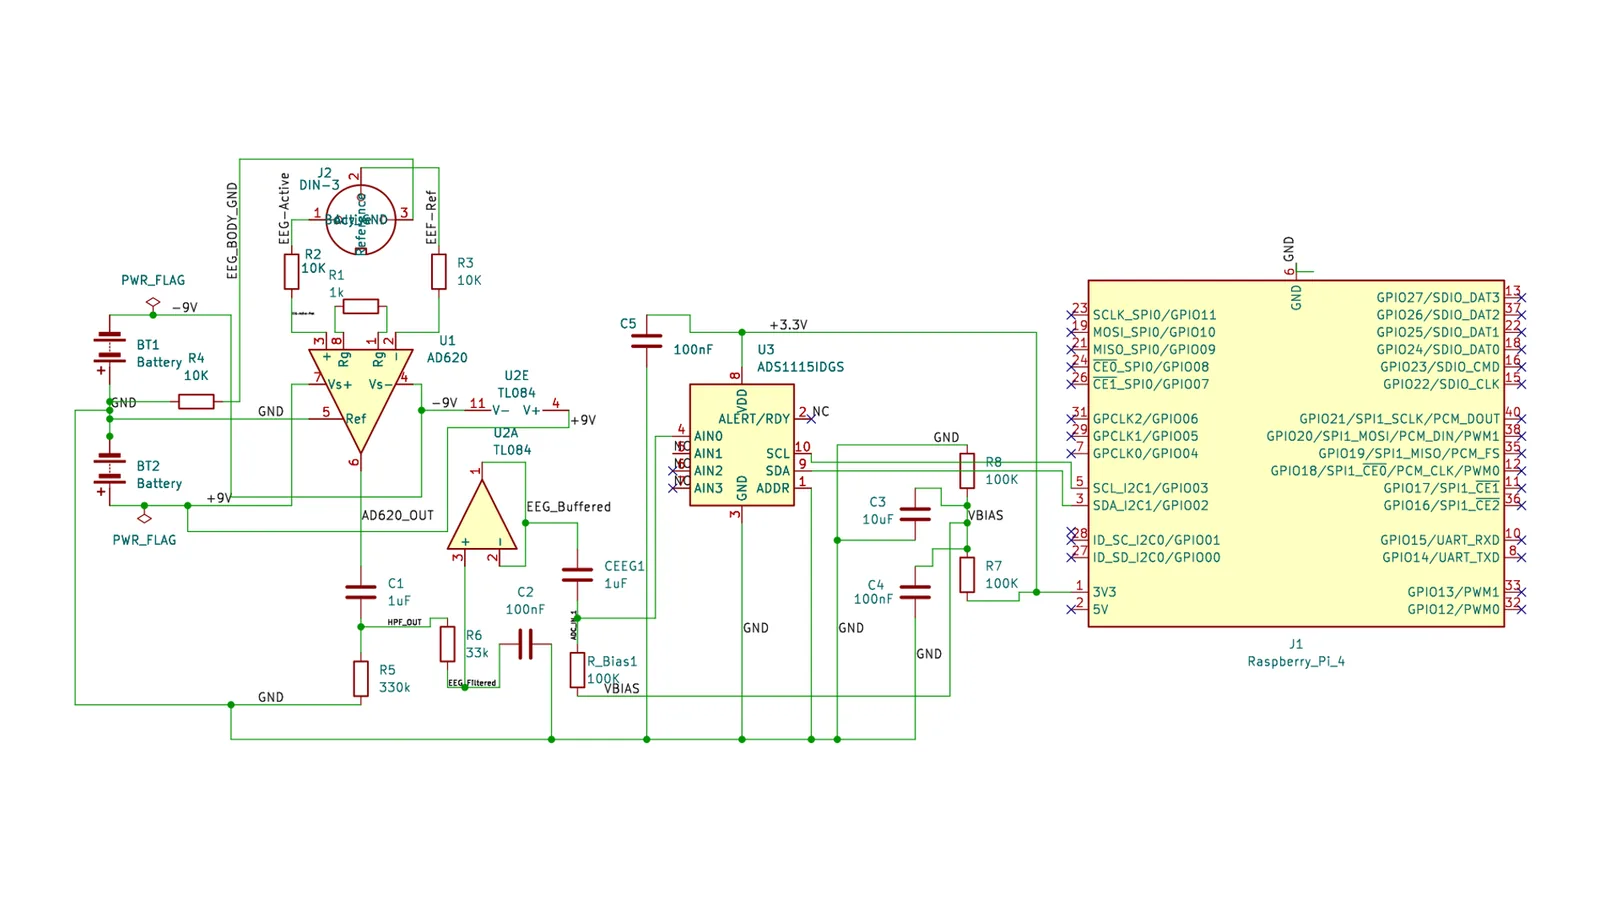
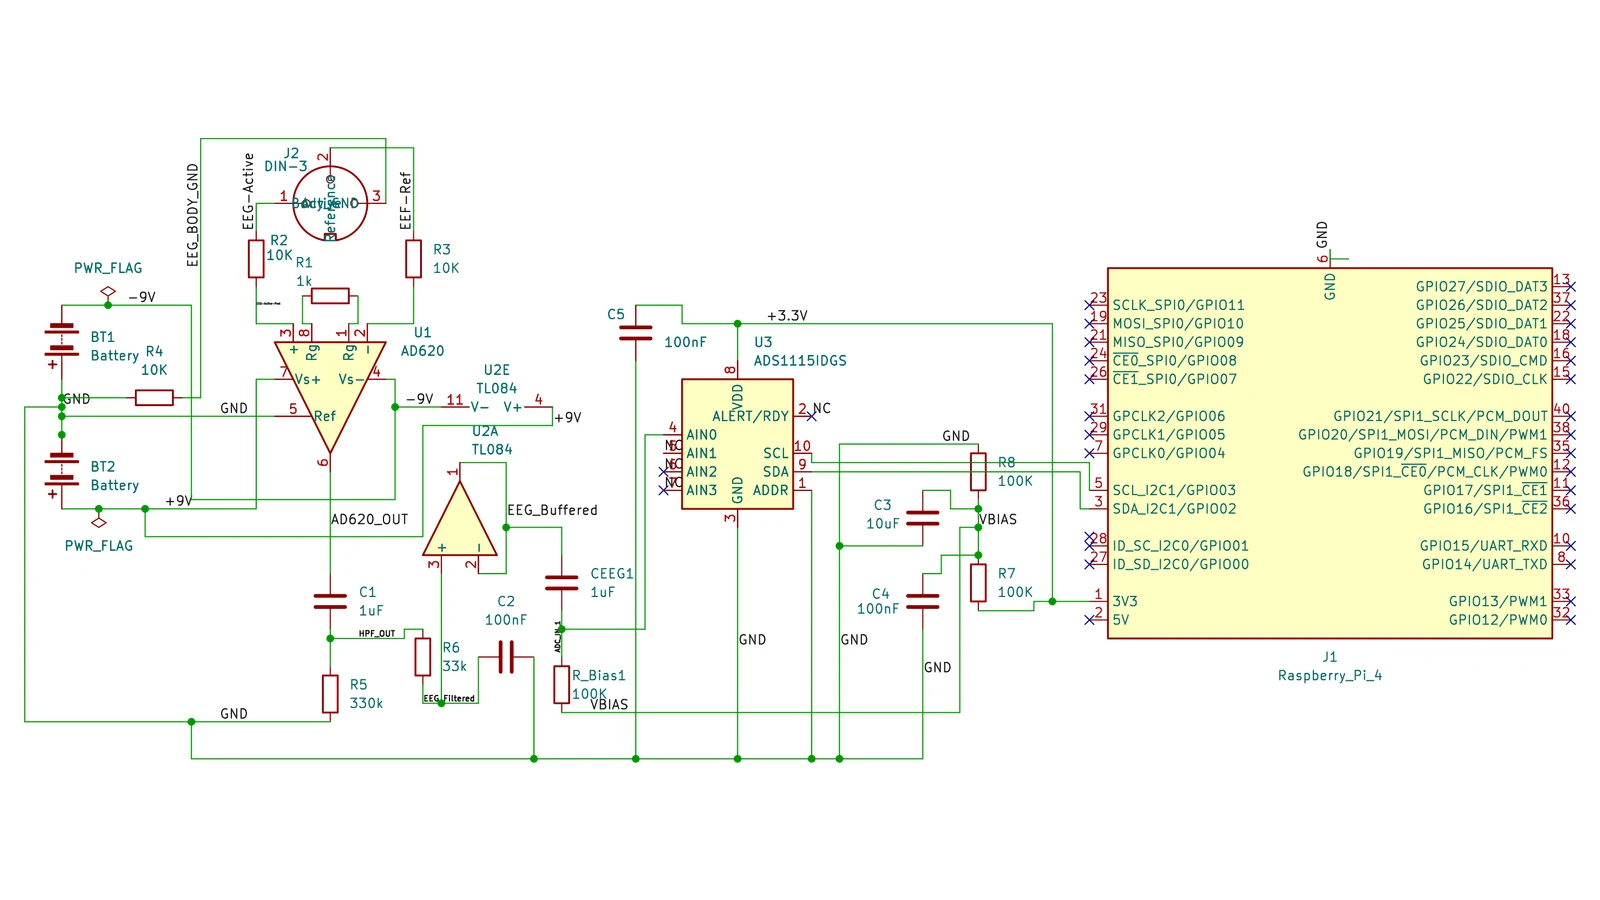
DIY EEG case study: real KiCad schematic, stage close-ups and LTspice simulation; tile opens it with an image cover; remove drawn covers

Changed region(s): [[0.0312, 0.1556, 1.0, 0.8711]]

diff --git a/content/projects/eeg.ts b/content/projects/eeg.ts
@@ -1,16 +1,24 @@
 import type { CaseStudy } from "@/content/case-study";
 import schematic from "@/public/images/projects/eeg/schematic.webp";
+import simulation from "@/public/images/projects/eeg/simulation.webp";
+import stageInput from "@/public/images/projects/eeg/stage-input.webp";
+import stageFilters from "@/public/images/projects/eeg/stage-filters.webp";
+import stageAdc from "@/public/images/projects/eeg/stage-adc.webp";
 
 // Under construction. Written from the files in ~/Desktop/EEG Circuit/ on
 // Kalp's Mac (read-only): the KiCad schematic (last edited 2026-08-14), the
 // LTspice netlist EEG_Simulation.cir (2026-08-28) and the 17-page project
 // plan PDF (October 2025). The board file is still empty, so there is no
-// layout to show. The schematic image is `kicad-cli sch export svg` of the
-// .kicad_sch. Registry status stays "coming" until Kalp says otherwise; the
-// page is published as "under construction".
+// layout to show. The schematic images are `kicad-cli sch export svg` of the
+// .kicad_sch (full sheet and three crops); simulation.webp is a matplotlib
+// plot of EEG_Simulation.cir run headless in LTspice 17.2.4 (2026-11-18, on a
+// scratch copy), every point a solver time point. Registry status is "live"
+// so the tile opens this page (a "coming" showcase tile opens nothing);
+// `underConstruction` keeps the meta line honest.
 
 const eeg: CaseStudy = {
   slug: "eeg",
+  underConstruction: true,
   kicker: "Neurotech hardware · KiCad + LTspice · 2026",
   title: "DIY EEG",
   lede:
@@ -46,7 +54,7 @@ const eeg: CaseStudy = {
       {
         title: "TL084 gain and re-bias",
         body:
-          "A TL084 op-amp in a non-inverting stage with 100 kΩ over 10 kΩ multiplies the filtered signal by 11, for a total gain of about 550 (50 µV of alpha becomes roughly 27 mV). The output is AC-coupled through 1 µF and pulled to a 1.65 V bias through 100 kΩ, because the ADC only reads positive voltages; the bias is the Pi's 3.3 V rail split in half and decoupled with 10 µF and 100 nF.",
+          "A TL084 op-amp in a non-inverting stage with 100 kΩ over 10 kΩ multiplies the filtered signal by 11, for a total gain of about 550 (50 µV of alpha is about 25 mV at the output in the simulation, a little under the nominal 27.5 mV because the filters take a bit off at 10 Hz). The output is AC-coupled through 1 µF and pulled to a 1.65 V bias through 100 kΩ, because the ADC only reads positive voltages; the bias is the Pi's 3.3 V rail split in half and decoupled with 10 µF and 100 nF.",
       },
       {
         title: "Digitize on the Raspberry Pi",
@@ -56,15 +64,39 @@ const eeg: CaseStudy = {
       {
         title: "What exists and what does not",
         body:
-          "Done: the schematic, an electrical-rules report, and the LTspice model with automatic pass/fail measurements (AD620 DC level, ADC high and low over the last four simulated seconds). Not done: the board layout (the .kicad_pcb file is empty), the parts order, the breadboard build and any code on the Pi. The plan's timeline is 10 to 12 weeks from the first order.",
+          "Done: the schematic and an electrical-rules report, and the LTspice model, which I ran start to finish: the AD620 output averages −1.0075 V and the ADC input stays between 1.6256 V and 1.6744 V (1.65 V ± 24 mV) over the last four simulated seconds, as I wanted. Not done: the board layout (the .kicad_pcb file is empty, no layout has been started), the parts order, the breadboard build and any code on the Pi. The plan's timeline is 10 to 12 weeks from the first order.",
       },
     ],
   },
   gallery: {
-    kind: "placeholder",
-    label: "Coming: LTspice plot of the simulated ADC input, and a breadboard photo once parts arrive",
     aspect: "4/3",
-    count: 2,
+    items: [
+      {
+        src: simulation,
+        tone: "document",
+        alt: "Four plots from the LTspice run. Top left: the 50 microvolt, 10 hertz alpha input. Top right: the AD620 output, a 5 millivolt wave around minus 1.0075 volts. Bottom left: the signal after the filters (about 2 millivolts) and after the TL084 (about 25 millivolts). Bottom right: the ADC input, a wave between 1.6256 and 1.6744 volts around the 1.65 volt bias",
+        caption:
+          "LTspice, EEG_Simulation.cir, run for 8 simulated seconds (half a second shown). The 50 µV alpha wave becomes about 25 mV at the ADC pin, centred on 1.65 V. Measured over 4 to 8 s: AD620 average −1.0075 V, ADC low 1.6256 V, ADC high 1.6744 V.",
+      },
+      {
+        src: stageInput,
+        tone: "document",
+        alt: "Close-up of the KiCad schematic: the DIN-3 electrode socket with 10 kilohm resistors R2 and R3 on the active and reference lines, the AD620 with its 1 kilohm gain resistor R1, and the two 9 volt batteries with a 10 kilohm resistor R4 on the body ground",
+        caption: "Electrodes in and the AD620: R2 and R3 (10 kΩ) protect the electrodes, R1 (1 kΩ) sets the gain, two batteries give ±9 V.",
+      },
+      {
+        src: stageFilters,
+        tone: "document",
+        alt: "Close-up of the KiCad schematic: the AD620 output through C1 (1 microfarad) and R5 (330 kilohms) to ground, then R6 (33 kilohms) and C2 (100 nanofarads), into the TL084 op-amp, then a 1 microfarad coupling capacitor and a 100 kilohm bias resistor",
+        caption: "Filters and gain: C1 and R5 high-pass, R6 and C2 low-pass, the TL084 stage, then C_EEG1 and R_Bias1 re-bias the signal.",
+      },
+      {
+        src: stageAdc,
+        tone: "document",
+        alt: "Close-up of the KiCad schematic: the ADS1115 analog-to-digital converter with its AIN0 input, 3.3 volt supply, a divider of two 100 kilohm resistors R7 and R8 with C3 and C4 making the VBIAS node, and the SCL and SDA lines leaving toward the Raspberry Pi",
+        caption: "The ADS1115: AIN0 reads the biased signal, R7 and R8 (100 kΩ each) with C3 and C4 make the 1.65 V bias from 3.3 V, SCL and SDA go to the Pi.",
+      },
+    ],
   },
   screens: null,
   video: null,
@@ -81,7 +113,6 @@ const eeg: CaseStudy = {
   status:
     "Under construction · Schematic and LTspice simulation done (August 2026) · Board layout and firmware planned, parts not ordered",
   wanted: [
-    "1 screenshot: the LTspice plot of V(ain0) and V(ad_out) from EEG_Simulation.cir (run it, then a screenshot or File > Export as PNG)",
     "1 photo of the breadboard once the parts arrive",
     "yes/no: may the 17-page project-plan PDF go public (it is only on the Mac)",
   ],

diff --git a/components/kalpos/windows/ProjectsWindow.test.tsx b/components/kalpos/windows/ProjectsWindow.test.tsx
@@ -24,7 +24,7 @@ describe("Projects window (card 2d)", () => {
   it("lists the five filters with real counts and the header count", () => {
     const { container, unmount } = mount();
     const rows = [...container.querySelectorAll(".kos-filter")].map((b) => b.textContent);
-    expect(rows).toEqual(["All12", "Live signal8", "Hardware5", "Case studies4", "Coming1"]);
+    expect(rows).toEqual(["All12", "Live signal8", "Hardware5", "Case studies4", "Coming0"]);
     expect(container.querySelector(".kos-main-count")?.textContent).toBe("12 items, 8 live");
     expect(container.querySelector(".kos-sidebar-foot")?.textContent).toContain("checking");
     unmount();
@@ -32,10 +32,12 @@ describe("Projects window (card 2d)", () => {
 
   it("filters the grid when a sidebar row is pressed", () => {
     const { container, unmount } = mount();
-    click([...container.querySelectorAll(".kos-filter")][4]);
+    click([...container.querySelectorAll(".kos-filter")][3]);
     const names = [...container.querySelectorAll(".kos-tile-name")].map((n) => n.textContent);
-    expect(names).toEqual(["DIY EEG"]);
-    expect(container.querySelectorAll(".kos-tile-art--coming").length).toBe(1);
+    expect(names).toContain("DIY EEG");
+    expect(names.length).toBe(4);
+    click([...container.querySelectorAll(".kos-filter")][4]);
+    expect(container.querySelectorAll(".kos-tile-name").length).toBe(0);
     unmount();
   });
 
@@ -58,18 +60,15 @@ describe("Projects window (card 2d)", () => {
     expect(arts.length).toBe(12);
     for (const art of arts) {
       const img = art.querySelector("img.kos-pic");
-      const drawn = art.querySelector("svg.kos-pic-drawn");
-      expect(img || drawn).not.toBeNull();
-      if (img) {
-        expect(img.getAttribute("src")).toMatch(/^\/images\/covers\/[a-z-]+\.webp$/);
-        expect(img.getAttribute("width")).toBe("480");
-        expect(img.getAttribute("height")).toBe("360");
-        expect(img.getAttribute("loading")).toBe("lazy");
-        expect(img.getAttribute("alt")).toBe("");
-      }
+      expect(img).not.toBeNull();
+      expect(img!.getAttribute("src")).toMatch(/^\/images\/covers\/[a-z-]+\.webp$/);
+      expect(img!.getAttribute("width")).toBe("480");
+      expect(img!.getAttribute("height")).toBe("360");
+      expect(img!.getAttribute("loading")).toBe("lazy");
+      expect(img!.getAttribute("alt")).toBe("");
       expect(art.querySelector(".kos-pill")).not.toBeNull();
     }
-    expect(container.querySelectorAll("svg.kos-pic-drawn").length).toBe(1);
+    expect(container.querySelectorAll(".kos-tile-art--coming").length).toBe(0);
     unmount();
   });
 

diff --git a/lib/covers.ts b/lib/covers.ts
@@ -2,8 +2,7 @@
  * Project tile covers (2026-11-18). Every tile in the Projects window shows a
  * picture of the project: a 480 x 360 WebP rendition under /images/covers/
  * (made by scripts/tile-covers.mjs from the registry hero, the case study's own
- * photo, or a fresh landing-page screenshot), or, for a project with nothing to
- * photograph yet, a drawn cover (components/kalpos/CoverArt.tsx).
+ * photo, a simulation plot or a fresh landing-page screenshot).
  */
 export const COVER_W = 480;
 export const COVER_H = 360;
@@ -21,16 +20,11 @@ export const RASTER_COVERS = new Set([
   "unpark",
   "rc-car",
   "porsche-pcb-keychain",
+  "eeg",
 ]);
 
-/** Slugs with a drawn SVG cover instead (nothing to photograph yet). */
-export const DRAWN_COVERS = { eeg: "eeg" } as const;
-export type DrawnCover = (typeof DRAWN_COVERS)[keyof typeof DRAWN_COVERS];
-
-export type Cover = { kind: "image"; src: string } | { kind: "drawn"; id: DrawnCover };
+export type Cover = { kind: "image"; src: string };
 
 export function coverFor(slug: string): Cover | null {
-  if (RASTER_COVERS.has(slug)) return { kind: "image", src: `/images/covers/${slug}.webp` };
-  const id = (DRAWN_COVERS as Record<string, DrawnCover>)[slug];
-  return id ? { kind: "drawn", id } : null;
+  return RASTER_COVERS.has(slug) ? { kind: "image", src: `/images/covers/${slug}.webp` } : null;
 }

diff --git a/components/kalpos/PhoneSheet.tsx b/components/kalpos/PhoneSheet.tsx
@@ -6,7 +6,6 @@ import { MS, reducedMotion } from "@/lib/motion";
 import type { Signal } from "@/lib/signal";
 import { checksDone, okCount, statusWord, tileMark } from "@/lib/signal";
 import { COVER_H, COVER_W } from "@/lib/covers";
-import CoverArt from "./CoverArt";
 import { TraceMark } from "./Tile";
 import { playlistOf, type SiteConfig } from "@/lib/site";
 import type { Tile } from "@/lib/tiles";
@@ -173,8 +172,6 @@ export default function PhoneSheet({
                     {t.cover?.kind === "image" ? (
                       // eslint-disable-next-line @next/next/no-img-element -- the tile's 480 px rendition, fixed size
                       <img className="kos-pic" src={t.cover.src} alt="" width={COVER_W} height={COVER_H} loading="lazy" decoding="async" draggable={false} />
-                    ) : t.cover?.kind === "drawn" ? (
-                      <CoverArt id={t.cover.id} />
                     ) : null}
                     <span className={`kos-pill kos-pill--mini kos-pill--${tileMark(t, s)}`}>
                       {tileMark(t, s) === "trace" ? <TraceMark /> : null}

diff --git a/components/kalpos/Tile.tsx b/components/kalpos/Tile.tsx
@@ -7,7 +7,6 @@ import type { Rect } from "@/lib/windows";
 import { track } from "@/lib/track";
 import { COVER_H, COVER_W } from "@/lib/covers";
 import { rectOf } from "./DeskIcons";
-import CoverArt from "./CoverArt";
 
 /** The spike trace the current hub draws on a live pad; drawn once (1.6 s) when the check answers ok. */
 export const TRACE = "M2 14h9l3-8 5 14 4-10 3 4h8l3-6 4 10 3-4h18";
@@ -46,8 +45,6 @@ export default function Tile({
       {tile.cover?.kind === "image" ? (
         // eslint-disable-next-line @next/next/no-img-element -- a 480 px rendition made for the tile; fixed size, no optimiser round trip
         <img className="kos-pic" src={tile.cover.src} alt="" width={COVER_W} height={COVER_H} loading="lazy" decoding="async" draggable={false} />
-      ) : tile.cover?.kind === "drawn" ? (
-        <CoverArt id={tile.cover.id} />
       ) : null}
       <span className={`kos-pill kos-pill--${mark}`}>
         {mark === "trace" ? <TraceMark /> : null}

diff --git a/app/kalpos.css b/app/kalpos.css
@@ -1618,8 +1618,7 @@ html[data-kos-boot="desk"] .kos-lock {
   background: var(--pad);
   box-shadow: var(--sh-sm), var(--hair);
 }
-.kos-pic,
-.kos-pic-drawn {
+.kos-pic {
   position: absolute;
   inset: 0;
   width: 100%;
@@ -1628,16 +1627,11 @@ html[data-kos-boot="desk"] .kos-lock {
   display: block;
   user-select: none;
 }
-.kos-tile-art--pic svg.kos-pic-drawn {
-  bottom: auto;
-  height: 100%;
-}
 /* A coming tile: dashed outline over a dimmed picture. */
 .kos-tile-art--pic.kos-tile-art--coming {
   box-shadow: none;
 }
-.kos-tile-art--coming .kos-pic,
-.kos-tile-art--coming .kos-pic-drawn {
+.kos-tile-art--coming .kos-pic {
   opacity: 0.55;
 }
 .kos-pill {
@@ -2273,9 +2267,6 @@ html[data-kos-boot="desk"] .kos-lock {
 .kos-pill--mini .kos-mark-coming {
   width: 6px;
   height: 6px;
-}
-.kos-row--icon .kos-pic-drawn {
-  opacity: 0.55;
 }
 .kos-sheet-body .kos-row small.live {
   color: var(--teal);

diff --git a/components/kalpos/windows/QuickLook.test.tsx b/components/kalpos/windows/QuickLook.test.tsx
@@ -188,8 +188,11 @@ describe("Quick Look in the Projects window", () => {
   });
 
   it("a coming tile says Coming and has no link", () => {
-    const { cells, panel, focusTile, key, unmount } = mount();
-    const i = cells().findIndex((c) => c.dataset.slug === "eeg");
+    // Nothing in the committed registry is coming any more, so add one.
+    const later: Tile = { ...tiles[0], slug: "later", name: "Later", kind: "coming", href: null, healthUrl: null, hero: null };
+    const withComing = [...tiles, later];
+    const { cells, panel, focusTile, key, unmount } = mount({ tiles: withComing, signals: initialSignals(withComing) });
+    const i = cells().findIndex((c) => c.dataset.slug === "later");
     focusTile(i);
     key(" ");
     const action = panel()?.querySelector(".kos-ql-action");

diff --git a/content/case-study.ts b/content/case-study.ts
@@ -91,6 +91,13 @@ export type CaseStudy = {
    * Local paths only; nothing here is a secret or a private file.
    */
   links?: { label: string; href: string }[];
+  /**
+   * True for a case study that is published but belongs to a project still being
+   * built (DIY EEG): the meta line says "under construction" instead of "case study".
+   * (The registry `coming` status does the same on the standalone page, but a
+   * `coming` showcase's tile opens nothing, so a written work in progress is `live`.)
+   */
+  underConstruction?: boolean;
   /** True while the page must not be published (registry stays "coming"). */
   draft?: boolean;
   /** What media Kalp should supply; mirrored in STATUS.md under H3. */

diff --git a/app/projects/[slug]/page.test.tsx b/app/projects/[slug]/page.test.tsx
@@ -16,9 +16,10 @@ async function render(slug: string) {
 }
 
 describe("case-study page publishing rule", () => {
-  it("publishes a non-draft content file whose registry status is coming as under construction", async () => {
+  it("publishes DIY EEG (registry live, content flagged underConstruction) as under construction", async () => {
     const entry = loadProjects().find((p) => p.slug === "eeg");
-    expect(entry?.status).toBe("coming");
+    expect(entry?.status).toBe("live");
+    expect(getCaseStudy("eeg")?.underConstruction).toBe(true);
     expect(getCaseStudy("eeg")?.draft).not.toBe(true);
     const html = await render("eeg");
     expect(html).toContain("under construction");

diff --git a/components/kalpos/windows/CaseStudyBody.tsx b/components/kalpos/windows/CaseStudyBody.tsx
@@ -15,7 +15,7 @@ import type { Tile } from "@/lib/tiles";
 export default function CaseStudyBody({ tile }: { tile: Tile }) {
   const study = getCaseStudy(tile.slug);
   if (!study || study.draft) return <CasePlaceholder name={tile.name} tagline={tile.tagline} repo={tile.repo} />;
-  return <CaseStudy study={study} underConstruction={tile.kind === "coming"} />;
+  return <CaseStudy study={study} underConstruction={tile.kind === "coming" || Boolean(study.underConstruction)} />;
 }
 
 export function CasePlaceholder({ name, tagline, repo }: { name: string; tagline: string; repo: string | null }) {

diff --git a/lib/tiles.test.ts b/lib/tiles.test.ts
@@ -97,11 +97,11 @@ describe("filters", () => {
 });
 
 describe("the committed registry", () => {
-  it("has 12 tiles, 8 live and 1 coming (the counts the desk shows)", () => {
+  it("has 12 tiles, 8 live and none coming (the counts the desk shows)", () => {
     const c = filterCounts(tilesFor(loadProjects()));
     expect(c.all).toBe(12);
     expect(c.live).toBe(8);
-    expect(c.coming).toBe(1);
+    expect(c.coming).toBe(0);
     expect(c.case).toBe(4);
   });
 });

diff --git a/lib/covers.test.ts b/lib/covers.test.ts
@@ -17,7 +17,7 @@ describe("tile covers", () => {
       expect(statSync(file).size, t.cover.src).toBeLessThanOrEqual(45 * 1024);
     }
   });
-  it("only projects with nothing to photograph are drawn", () => {
-    expect(tiles.filter((t) => t.cover?.kind === "drawn").map((t) => t.slug).sort()).toEqual(["eeg"]);
+  it("every cover is a picture file (no drawn covers are left)", () => {
+    for (const t of tiles) expect(t.cover?.kind, t.slug).toBe("image");
   });
 });
